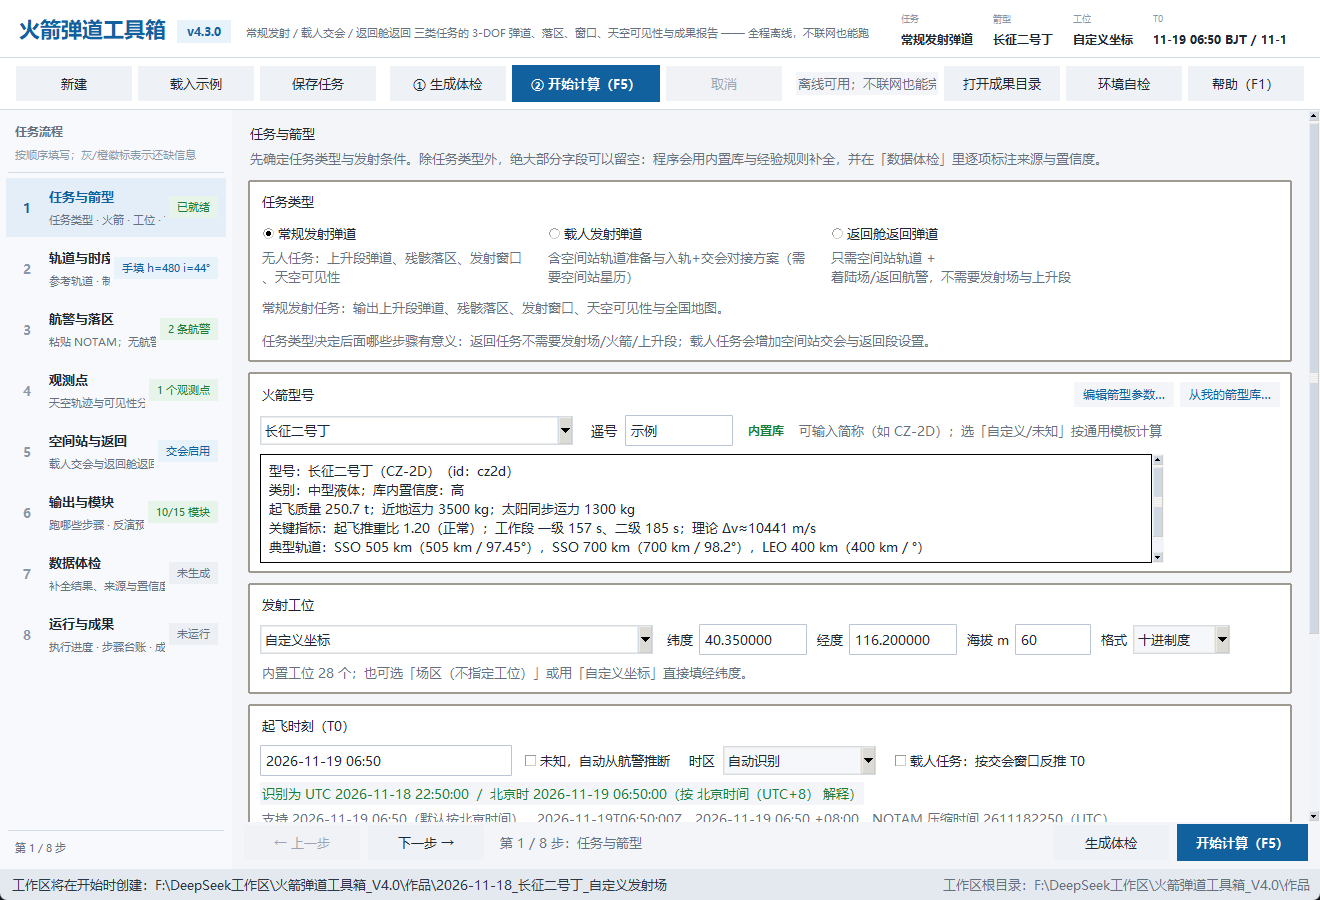
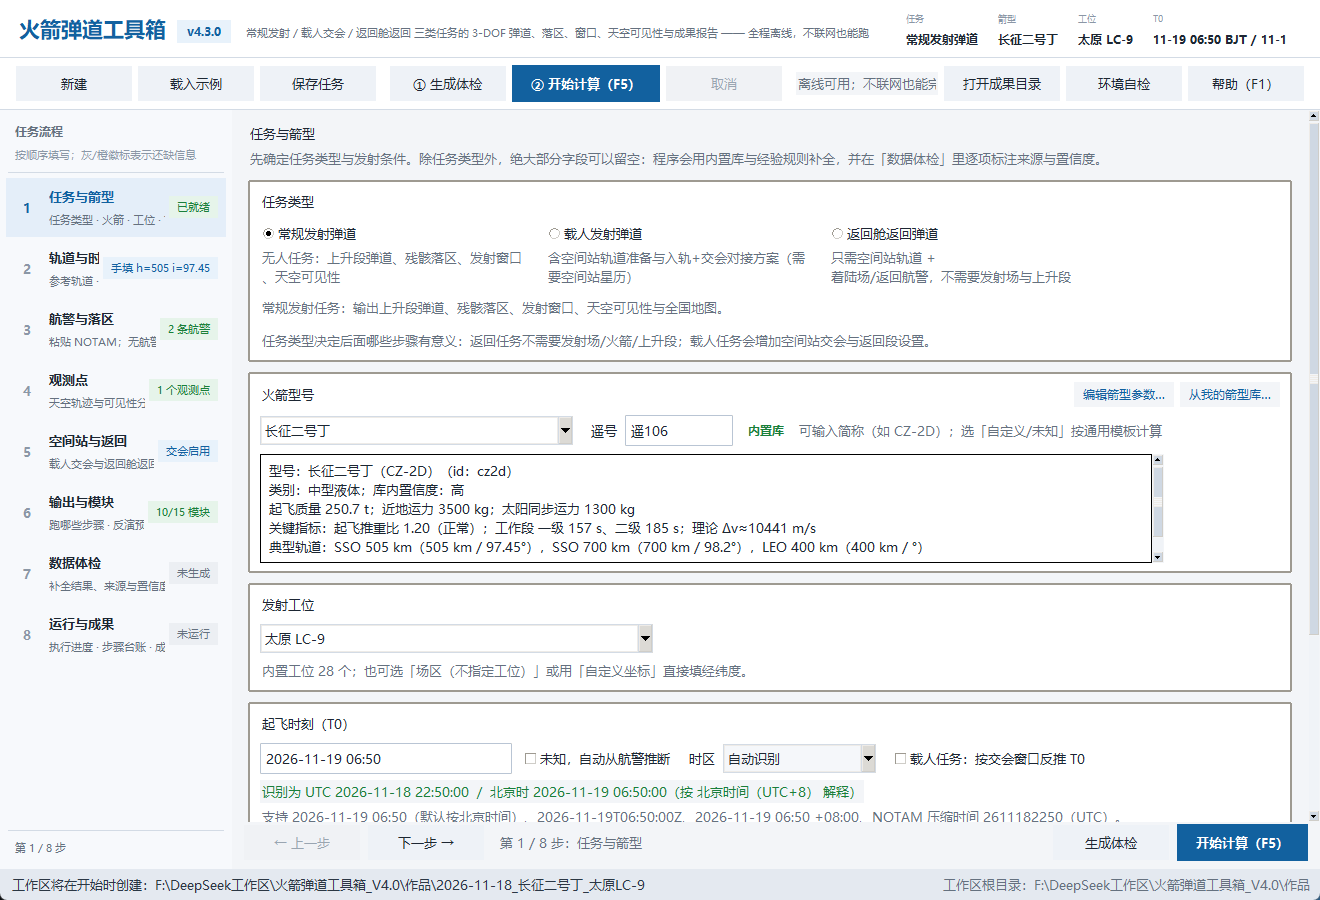
作品页改为真实工位：太原 LC-9 发射 + 北京观测；补充天空轨迹图

diff --git a/works/rocket-ballistic-toolkit/README.html b/works/rocket-ballistic-toolkit/README.html
@@ -17,16 +17,16 @@
 <header class="site-header"><div class="wrap nav"><a class="brand" href="../../index.html"><span class="brand-mark" aria-hidden="true"></span>学哲玩</a><div class="nav-right"><nav aria-label="主导航"><ul class="nav-links"><li><a class="nav-link" href="../../notes/">文章</a></li><li><a class="nav-link" href="../../works/" aria-current="page">作品</a></li><li><a class="nav-link" href="../../about/">关于</a></li></ul></nav><button class="theme-toggle" type="button" data-theme-toggle aria-label="切换到暗色模式" title="暗色"><svg class="icon-sun" viewBox="0 0 16 16" fill="none" stroke="currentColor" stroke-width="1.3" stroke-linecap="round" aria-hidden="true"><circle cx="8" cy="8" r="3"></circle><path d="M8 1.3v1.6M8 13.1v1.6M1.3 8h1.6M13.1 8h1.6M3.3 3.3l1.1 1.1M11.6 11.6l1.1 1.1M12.7 3.3l-1.1 1.1M4.4 11.6l-1.1 1.1"></path></svg><svg class="icon-moon" viewBox="0 0 16 16" fill="none" stroke="currentColor" stroke-width="1.3" stroke-linecap="round" stroke-linejoin="round" aria-hidden="true"><path d="M13.3 9.6A5.8 5.8 0 0 1 6.4 2.7a5.9 5.9 0 1 0 6.9 6.9Z"></path></svg></button></div></div></header>
 <main id="main">
 <div class="wrap-narrow work-doc"><header class="work-doc-head"><p class="work-doc-kicker">说明 · 雷达 · 地理 · 导航</p><h1 class="work-doc-title">火箭弹道工具箱</h1><p class="work-doc-sub">离线 3-DOF 弹道 / 落区 / 发射窗口 / 天空可见性 / 全国地图 / KMZ / 中文报告</p><div class="work-doc-meta"><span>雷达 · 地理 · 导航</span><span>8 个文件</span><span>3.2 MB</span><span class="tag">弹道</span><span class="tag">3-DOF</span><span class="tag">发射窗口</span><span class="tag">KMZ</span><span class="tag">离线</span><span class="tag">Python</span></div><div class="work-doc-actions"><a href="../../works/">← 返回作品列表</a><a href="https://github.com/Logicx200/rocket-ballistic-toolkit" target="_blank" rel="noopener noreferrer">GitHub 源码 ↗</a><a href="README.md">原始 Markdown</a></div></header><article class="prose work-doc-body"><blockquote><p><strong>离线 3-DOF 弹道预报与任务成果工具箱</strong>：把「一次发射（或一次返回）」变成一整套可交付成果—— 弹道、残骸落区、入轨根数、发射窗口、观测点天空轨迹、全国最大高度角地图、三维 KMZ、 不确定度、中文技术报告与交付自检。</p></blockquote>
-<p>源码与完整文档（独立仓库）：<strong>https://github.com/Logicx200/rocket-ballistic-toolkit</strong></p>
-<p><img src="figures/map_beijing.png" alt="北京示例：全国最大高度角地图" loading="lazy" decoding="async"></p>
-<blockquote><p>本作品展示图统一使用「北京」作为示例地点：发射场在北京北部（自定义坐标 40.35°N, 116.20°E）， 观测点在北京天安门（39.9042°N, 116.4074°E）。这是一次<strong>虚构的示意任务</strong>，不是真实发射。</p></blockquote>
+<p>源码与完整文档（独立仓库）：<strong>https://github.com/Logicx200/rocket-ballistic-toolkit</strong> 免安装版下载：<strong>https://github.com/Logicx200/rocket-ballistic-toolkit/releases/latest</strong></p>
+<p><img src="figures/map_beijing.png" alt="北京观测示例：太原 LC-9 发射、北京观测的全国最大高度角地图" loading="lazy" decoding="async"></p>
+<blockquote><p>展示图统一使用「北京」作为<strong>观测地点</strong>：发射工位是真实的太原卫星发射中心 LC-9 （38.8632°N, 111.5896°E），观测点设在北京天安门（39.9042°N, 116.4074°E）。 任务参数沿用内置示例，仅用于演示软件能力，<strong>不是真实发射</strong>。</p></blockquote>
 <h2 id="能做什么">能做什么</h2>
 <ul><li><strong>三类任务</strong>：常规发射弹道 / 载人交会（含 T0 反推、相位调整 + Hohmann + 末段逼近）/ 返回舱返回（制动窗、再入/开伞/着陆、1σ 散布）；</li><li><strong>八步向导 GUI</strong>：任务与箭型 → 轨道与时序 → 航警与落区 → 观测点 → 空间站与返回 → 输出与模块 → 数据体检 → 运行与成果；</li><li><strong>自定义箭型</strong>：多级 / 并联助推器 / 多机多阶段点火 / 折线俯仰 / 整流罩，图形化编辑器，免写数据库；</li><li><strong>真实出图</strong>：全国最大高度角地图（含晨昏线/阳光可见）、天空轨迹与地形判读、三维 KMZ/KML；</li><li><strong>交付自检</strong>：<code>qc_report.json</code> 逐项 PASS/FAIL、一页纸任务摘要、成果清单与步骤台账。</li></ul>
-<h2 id="北京示例虚构可复现">北京示例（虚构，可复现）</h2>
-<pre><code class="language-bash">python -m app.main --cli --mission &quot;examples/北京示例_任务输入.json&quot; --workdir &quot;作品\示例_北京_2026-11-19&quot;</code></pre>
-<p>本机实测：<strong>QC 35/35 PASS</strong>，入轨 282 km × 937 km / 45.64°，残骸 3/3 落区内，发射窗口 19.4 min， 北京观测点最大仰角 31.5°。</p>
+<h2 id="北京观测示例可复现">北京观测示例（可复现）</h2>
+<pre><code class="language-bash">python -m app.main --cli --mission &quot;examples/北京观测示例_任务输入.json&quot; --workdir &quot;作品\示例_太原发射_北京观测&quot;</code></pre>
+<p>本机实测：<strong>QC 35/35 PASS</strong>，入轨 370 km × 640 km / 94.19°，残骸 3/3 落区内， 发射窗口 19.3 min；北京观测点首次出现 06:51:33（方位 254.9°、仰角 0.44°），最高仰角 13.5°。</p>
 <div class="table-container"><table><thead><tr><th>界面</th><th>数据体检</th></tr></thead><tbody><tr><td><img src="figures/01_mission.png" alt="任务与箭型" loading="lazy" decoding="async"></td><td><img src="figures/07_health_result.png" alt="数据体检" loading="lazy" decoding="async"></td></tr></tbody></table></div>
-<p><img src="figures/appear_beijing.png" alt="出现方位地形判读图（北京观测点）" loading="lazy" decoding="async"> <img src="figures/sun_earthshadow_beijing.png" alt="太阳高度与地影（北京观测点）" loading="lazy" decoding="async"></p>
+<p><img src="figures/sky_beijing.png" alt="从北京看太原发射：天空轨迹（方位角-高度角）" loading="lazy" decoding="async"> <img src="figures/appear_beijing.png" alt="出现方位地形判读图（北京观测点）" loading="lazy" decoding="async"> <img src="figures/sun_earthshadow_beijing.png" alt="太阳高度与地影（北京观测点）" loading="lazy" decoding="async"></p>
 <h2 id="输出成果">输出成果</h2>
 <pre><code>作品\&lt;日期_型号_工位&gt;\
 ├─ sim\      弹道序列、事件表、落点、入轨根数、关键节点、飞行阶段、环境剖面
@@ -37,7 +37,7 @@
 <h2 id="技术栈">技术栈</h2>
 <p>Python 3.10+ · numpy · scipy · matplotlib · tkinter · python-docx · sgp4 · PyInstaller</p>
 <h2 id="说明">说明</h2>
-<ul><li>仅供公开信息分析与教学使用；非实际发射/返回弹道，非官方信息。</li><li>3-DOF 质点模型，不含侧向机动细节、风场与真实发动机调节；交会与返回舱结果为工程估算。</li><li>支持打包为免安装 Windows exe（PyInstaller one-folder），打包脚本随源码仓库提供。</li></ul></article><p class="work-doc-foot"><a class="back-link" href="../../works/">← 返回作品列表</a></p></div>
+<ul><li>仅供公开信息分析与教学使用；非实际发射/返回弹道，非官方信息。</li><li>3-DOF 质点模型，不含侧向机动细节、风场与真实发动机调节；交会与返回舱结果为工程估算。</li><li>提供 Windows 免安装版 exe（PyInstaller one-folder），见 Releases。</li></ul></article><p class="work-doc-foot"><a class="back-link" href="../../works/">← 返回作品列表</a></p></div>
 </main>
 <footer class="site-footer"><div class="wrap"><div class="footer-row"><p>© 2026 学哲玩<span class="footer-sep">·</span>7 篇文章<span class="footer-sep">·</span>47 个作品</p><p>本站由纯静态 HTML / CSS / JS 构建<span class="footer-sep">·</span><span class="footer-links"><a href="https://github.com/logicx200" target="_blank" rel="noopener noreferrer">GitHub</a><a href="mailto:1831665169@qq.com">邮箱</a></span></p></div></div></footer>
 <script src="../../assets/js/site.js" defer></script>
